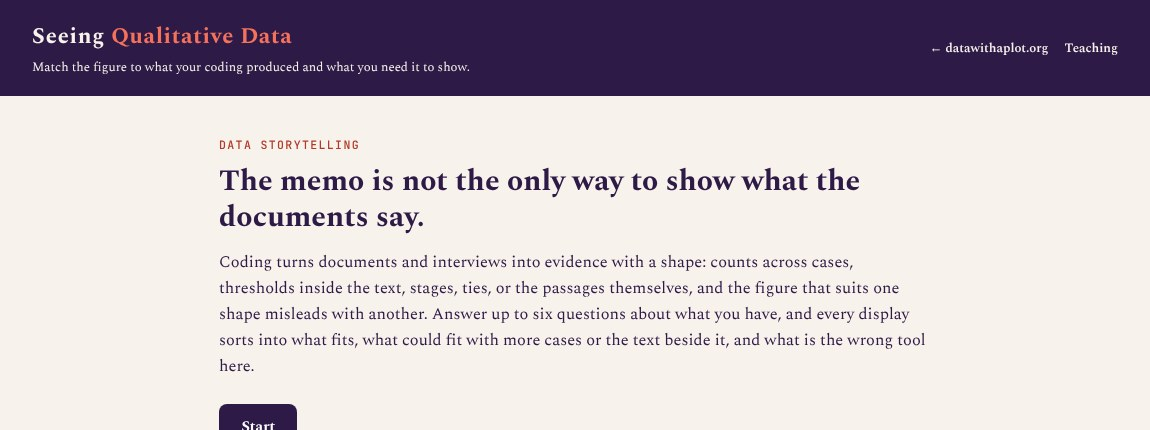
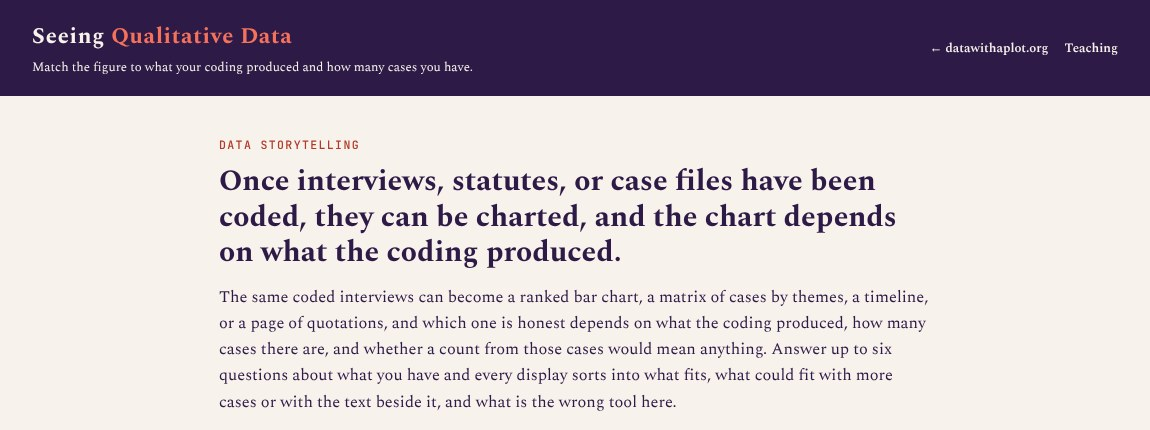
Qualitative picker: intro copy in the maintainer's voice
The first intro read unclear and not in her register, so the headline,
lead and header subtitle were re-offered and picked: concrete members
unpacked inline, the mechanism in the sentence, no shorthand. The
Teaching card mirrors the new lead's premise sentence, and the thumbnail
is retaken because it is a header screenshot that carries the headline.

Claude-Session: https://claude.ai/code/session_0191t4cG3m6aQycW3EiNAUvs

diff --git a/CLAUDE.md b/CLAUDE.md
@@ -475,7 +475,20 @@ Built 2026-10-17 (maintainer's picks that day: six axes, keep the weak forms,
 the name, a Teaching card plus the worksheet link, cite now and she checks the
 sources; every user-facing string was offered with options and she picked
 option A throughout on 2026-10-19, so the shipped copy is reviewed, not "tune
-later"). A third picker, for the question the compassionate release page
+later"). Once live she found the intro unclear and not her voice ("evidence
+with a shape", "thresholds inside the text", "ties" were the abstractions),
+so the same day the headline, lead and header subtitle were re-offered in
+her register (the lindsey-voice skill: concrete members unpacked inline,
+mechanism over adjective, one long compound sentence) and she picked:
+headline "Once interviews, statutes, or case files have been coded, they can
+be charted, and the chart depends on what the coding produced."; lead "The
+same coded interviews can become a ranked bar chart, a matrix of cases by
+themes, a timeline, or a page of quotations, and which one is honest depends
+on..."; subtitle "Match the figure to what your coding produced and how many
+cases you have." The Teaching card mirrors the lead's premise sentence, as
+the format picker's does. The intro note stays identical to the format
+picker's on purpose. The thumbnail is a header screenshot that includes the
+headline, so it was retaken with the new copy. A third picker, for the question the compassionate release page
 answers by example: coded documents and interviews have a shape, and which
 figure suits it. Same Excel to R to one-HTML shape as the format picker, which
 it is cloned from (no prerequisites, no TMFs). Answer up to six questions and
